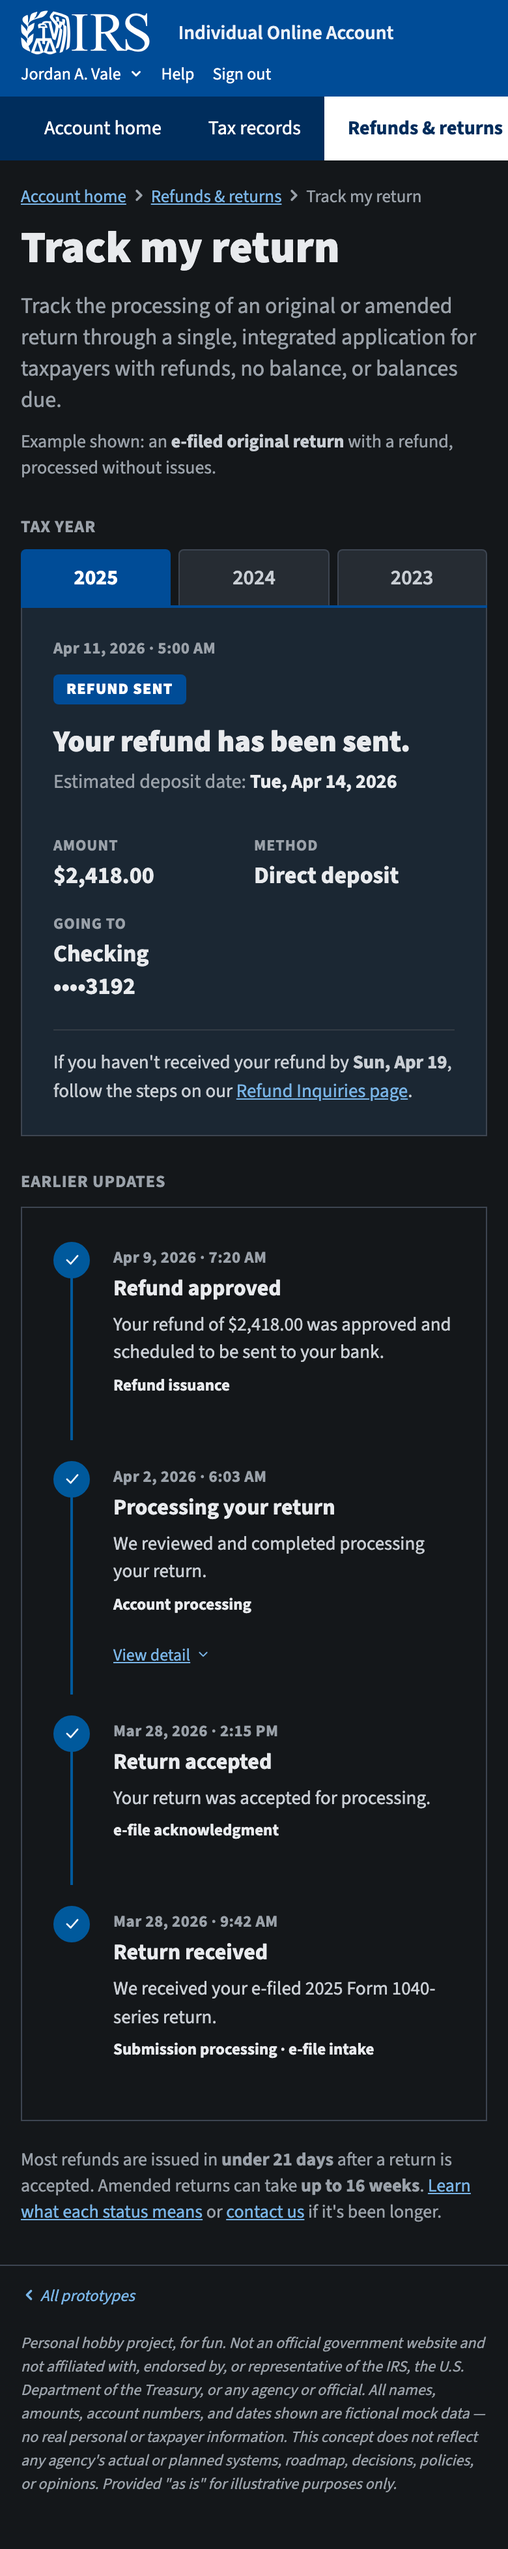
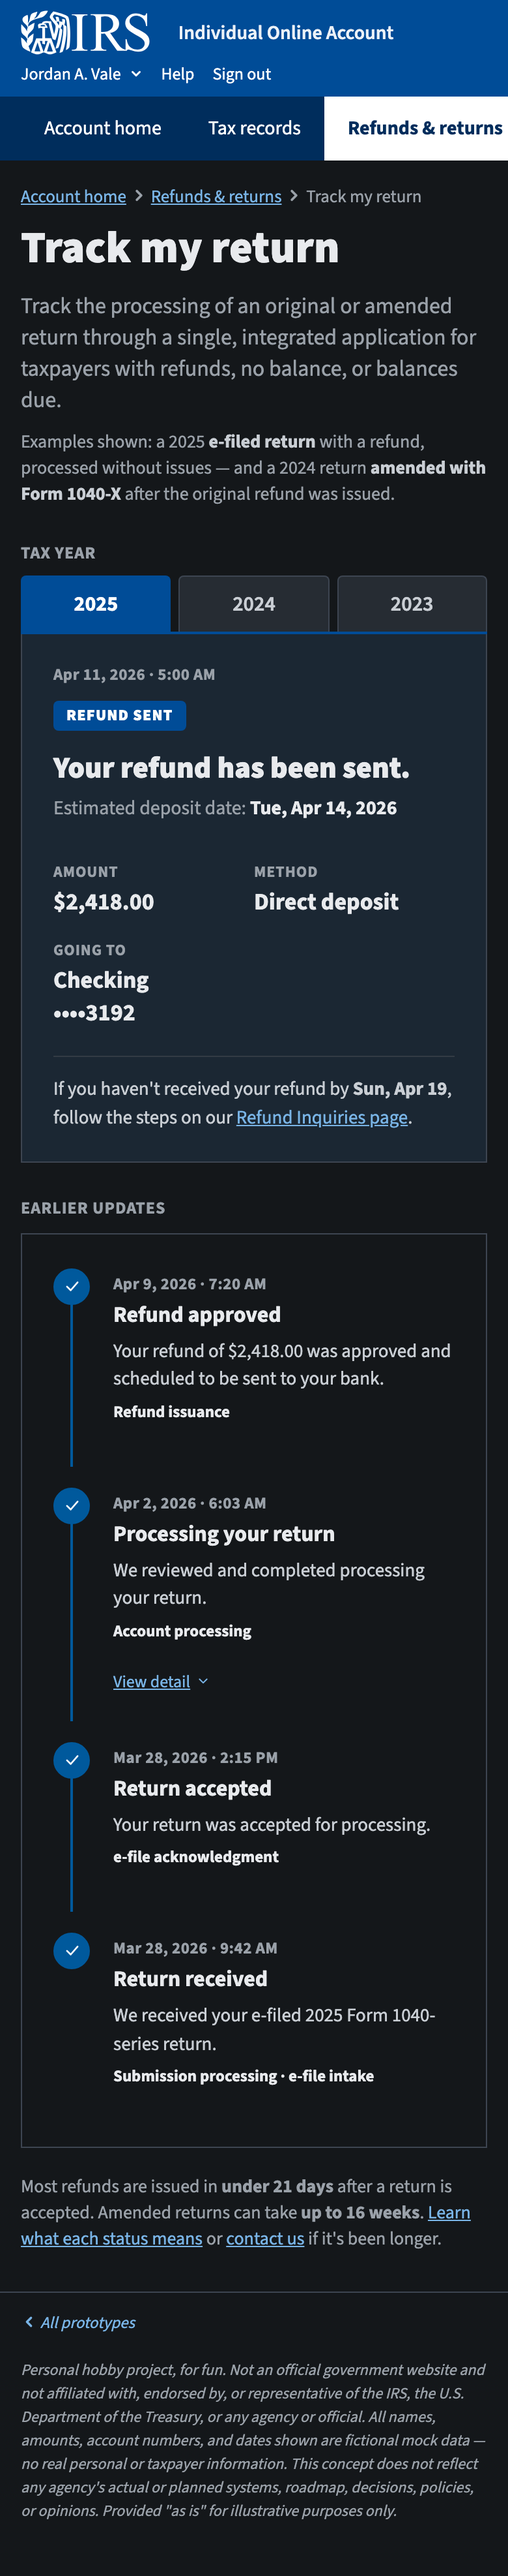
feat: 2024 tab — original return processed, then amended with Form 1040-X (#17)
One continuous activity feed for the year: hero shows the amendment
being adjusted (refund claimed / method / estimated completion), earlier
updates list the 1040-X receipt and the completed original-return stages
most-recent-first, separated by section labels.

diff --git a/refund-tracker/index.html b/refund-tracker/index.html
@@ -125,6 +125,8 @@
   .tl li{position:relative;padding:18px 0 18px 46px}
   .tl li:not(:last-child)::after{content:"";position:absolute;left:13px;top:34px;bottom:-2px;width:2px;background:var(--done)}
   .tl .mk{position:absolute;left:0;top:18px;width:28px;height:28px;border-radius:50%;display:grid;place-items:center;font-size:13px;font-weight:800;background:var(--done);color:#fff;border:2px solid var(--done);z-index:1}
+  .tl li.tgroup{padding:20px 0 0 46px;font-size:12px;font-weight:800;letter-spacing:.05em;text-transform:uppercase;color:var(--muted)}
+  .tl li.tgroup::after{display:none}
   .tl .ttime{font-size:12.5px;font-weight:700;color:var(--muted);letter-spacing:.02em}
   .tl .ttitle{font-size:17px;font-weight:700;margin:2px 0 0}
   .tl .tdesc{font-size:14.5px;color:var(--ink-2);margin:5px 0 0;max-width:64ch;line-height:1.5}
@@ -185,7 +187,7 @@
     <p class="crumb"><a>Account home</a> <svg viewBox="0 0 16 16" fill="none" stroke="currentColor" stroke-width="2.2" stroke-linecap="round" stroke-linejoin="round" style="width:1em;height:1em;vertical-align:-0.12em" aria-hidden="true"><path d="M6 4l4 4-4 4"/></svg> <a>Refunds &amp; returns</a> <svg viewBox="0 0 16 16" fill="none" stroke="currentColor" stroke-width="2.2" stroke-linecap="round" stroke-linejoin="round" style="width:1em;height:1em;vertical-align:-0.12em" aria-hidden="true"><path d="M6 4l4 4-4 4"/></svg> Track my return</p>
     <h1 class="page">Track my return</h1>
     <p class="sub">Track the processing of an original or amended return through a single, integrated application for taxpayers with refunds, no balance, or balances due.</p>
-    <p class="sample">Example shown: an <b>e-filed original return</b> with a refund, processed without issues.</p>
+    <p class="sample">Examples shown: a 2025 <b>e-filed return</b> with a refund, processed without issues — and a 2024 return <b>amended with Form 1040-X</b> after the original refund was issued.</p>
 
     <!-- tax year selection (Where's My Refund layout) -->
     <span class="yearlabel" id="yearlabel">Tax year</span>
@@ -253,9 +255,69 @@
     </div>
 
     <div class="yearpanel" id="panel-2024" hidden>
-      <div class="noyear">
-        <h2>No return information for tax year 2024</h2>
-        <p>We don't have status information to show for this year. If you filed recently, allow 24 hours after e-filing — or about 4 weeks after mailing a paper return — and check back. You can also view past filings in <a>Tax records</a>.</p>
+      <!-- most recent update — amended return in progress -->
+      <div class="summary">
+        <p class="stime">Jun 2, 2026</p>
+        <span class="stag" style="background:var(--irs-blue)">Being adjusted</span>
+        <h2>Your amended return is being adjusted.</h2>
+        <p class="seta">Estimated completion: <b>by Aug 31, 2026</b></p>
+        <div class="sgrid">
+          <span class="scell"><span class="sk">Refund claimed</span><span class="sv">$612.00</span></span>
+          <span class="scell"><span class="sk">Method</span><span class="sv">Paper check</span></span>
+          <span class="scell"><span class="sk">Going to</span><span class="sv">Address on file</span></span>
+        </div>
+        <p class="inq">An employee is reviewing your changes and adjusting your account. If we need more information, we'll send you a letter — no action is needed from you right now.</p>
+      </div>
+
+      <!-- earlier updates, most recent first -->
+      <p class="tlhead">Earlier updates</p>
+      <div class="timeline">
+        <ul class="tl">
+          <li class="tgroup">Amended return · Form 1040-X</li>
+          <li>
+            <span class="mk" aria-hidden="true"><svg class="ic" viewBox="0 0 16 16" aria-hidden="true"><path d="M3 8.5 6.5 12 13 4.5" fill="none" stroke="currentColor" stroke-width="1.6" stroke-linecap="round" stroke-linejoin="round"/></svg></span>
+            <span class="ttime">May 12, 2026</span>
+            <p class="ttitle">Amended return received</p>
+            <p class="tdesc">We received your Form 1040-X for tax year 2024. Amended returns are worked in the order received.</p>
+            <p class="tloc"><b>Amended returns unit</b></p>
+          </li>
+          <li class="tgroup">Original return</li>
+          <li>
+            <span class="mk" aria-hidden="true"><svg class="ic" viewBox="0 0 16 16" aria-hidden="true"><path d="M3 8.5 6.5 12 13 4.5" fill="none" stroke="currentColor" stroke-width="1.6" stroke-linecap="round" stroke-linejoin="round"/></svg></span>
+            <span class="ttime">Feb 26, 2025 · 5:00 AM</span>
+            <p class="ttitle">Refund sent</p>
+            <p class="tdesc">Your refund of $1,137.00 was sent to your bank by direct deposit.</p>
+            <p class="tloc"><b>Refund issuance</b></p>
+          </li>
+          <li>
+            <span class="mk" aria-hidden="true"><svg class="ic" viewBox="0 0 16 16" aria-hidden="true"><path d="M3 8.5 6.5 12 13 4.5" fill="none" stroke="currentColor" stroke-width="1.6" stroke-linecap="round" stroke-linejoin="round"/></svg></span>
+            <span class="ttime">Feb 24, 2025 · 7:20 AM</span>
+            <p class="ttitle">Refund approved</p>
+            <p class="tdesc">Your refund was approved and scheduled to be sent to your bank.</p>
+            <p class="tloc"><b>Refund issuance</b></p>
+          </li>
+          <li>
+            <span class="mk" aria-hidden="true"><svg class="ic" viewBox="0 0 16 16" aria-hidden="true"><path d="M3 8.5 6.5 12 13 4.5" fill="none" stroke="currentColor" stroke-width="1.6" stroke-linecap="round" stroke-linejoin="round"/></svg></span>
+            <span class="ttime">Feb 20, 2025 · 6:03 AM</span>
+            <p class="ttitle">Processing your return</p>
+            <p class="tdesc">We reviewed and completed processing your return.</p>
+            <p class="tloc"><b>Account processing</b></p>
+          </li>
+          <li>
+            <span class="mk" aria-hidden="true"><svg class="ic" viewBox="0 0 16 16" aria-hidden="true"><path d="M3 8.5 6.5 12 13 4.5" fill="none" stroke="currentColor" stroke-width="1.6" stroke-linecap="round" stroke-linejoin="round"/></svg></span>
+            <span class="ttime">Feb 3, 2025 · 12:40 PM</span>
+            <p class="ttitle">Return accepted</p>
+            <p class="tdesc">Your return was accepted for processing.</p>
+            <p class="tloc"><b>e-file acknowledgment</b></p>
+          </li>
+          <li>
+            <span class="mk" aria-hidden="true"><svg class="ic" viewBox="0 0 16 16" aria-hidden="true"><path d="M3 8.5 6.5 12 13 4.5" fill="none" stroke="currentColor" stroke-width="1.6" stroke-linecap="round" stroke-linejoin="round"/></svg></span>
+            <span class="ttime">Feb 3, 2025 · 9:18 AM</span>
+            <p class="ttitle">Return received</p>
+            <p class="tdesc">We received your e-filed 2024 Form 1040-series return.</p>
+            <p class="tloc"><b>Submission processing · e-file intake</b></p>
+          </li>
+        </ul>
       </div>
     </div>
 
